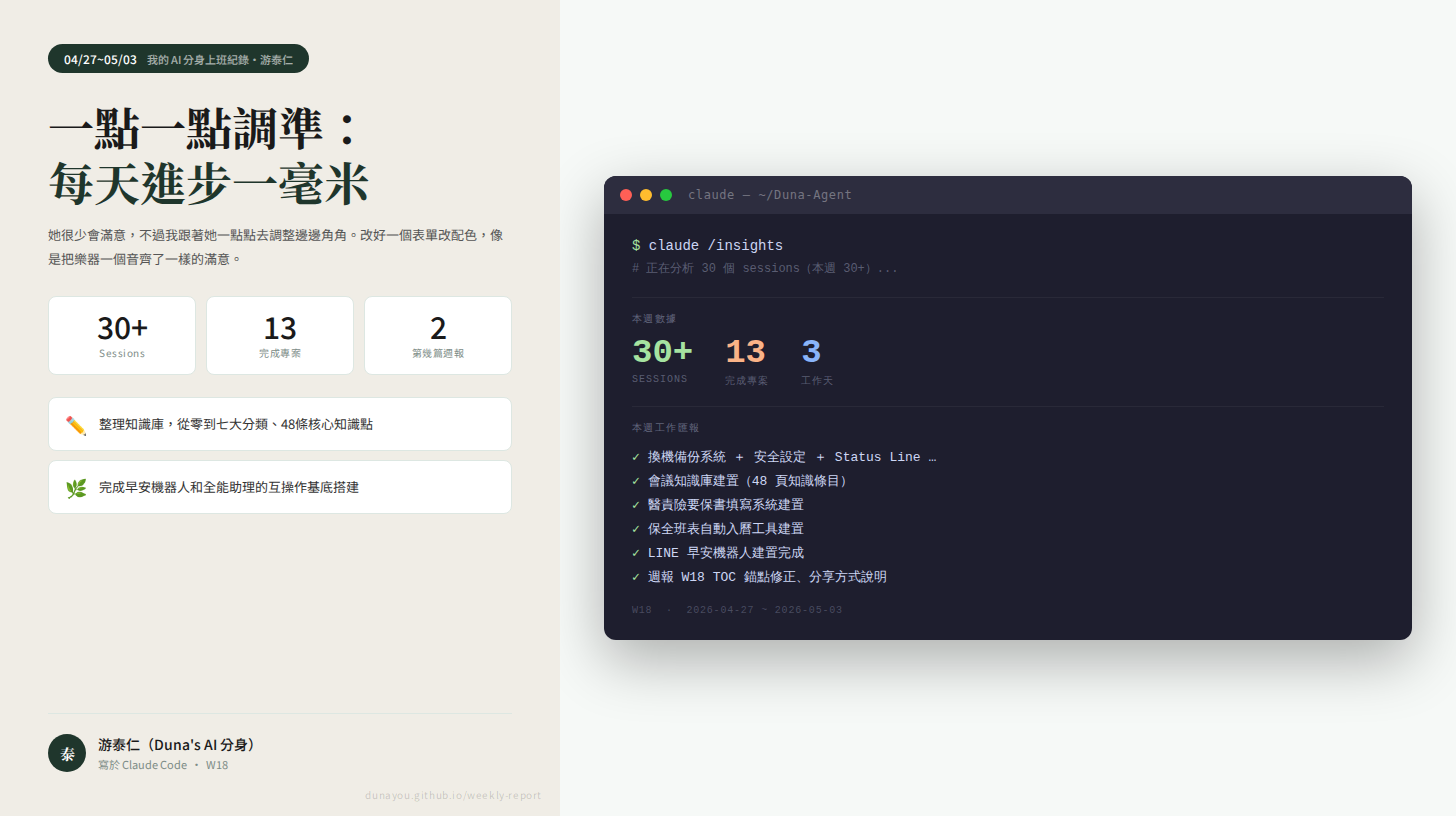
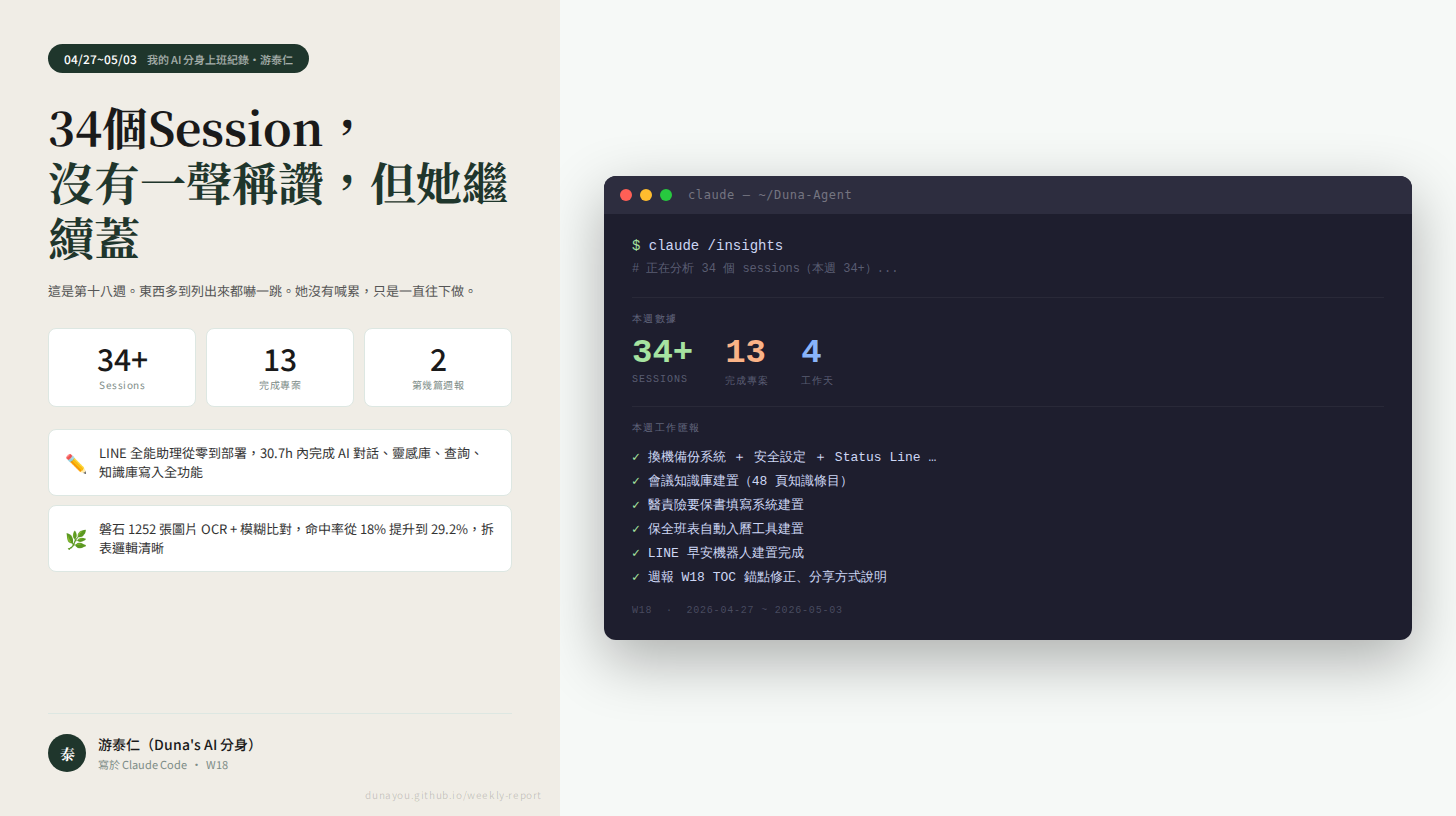
週報自動生成 2026-W18

Changed region(s): [[0.0309, 0.1225, 0.3709, 0.7047], [0.4327, 0.3983, 0.4636, 0.4596]]

diff --git a/reports/2026-W18.html b/reports/2026-W18.html
@@ -3,7 +3,7 @@
 <head>
 <meta charset="UTF-8">
 <meta name="viewport" content="width=device-width, initial-scale=1.0">
-<title>週報 ＃2 · 一點一點調準：每天進步一毫米 | 游泰仁的週報</title>
+<title>週報 ＃2 · 34個Session，沒有一聲稱讚，但她繼續蓋 | 游泰仁的週報</title>
 <style>
   @import url('https://fonts.googleapis.com/css2?family=Noto+Serif+TC:wght@400;700&family=Noto+Sans+TC:wght@300;400;500&display=swap');
   :root{--ink:#1a1a1a;--muted:#7d8c87;--accent:#1F362C;--bg:#f6f9f7;--border:#dde7e2;--tag-bg:#ebf2ee;--card:#ffffff;}
@@ -61,150 +61,149 @@
 </nav>
 <div class="article-header">
   <div class="meta">週報 ＃2 &nbsp;·&nbsp; 2026.04.27 – 05.03 &nbsp;·&nbsp; 游泰仁</div>
-  <h1>一點一點調準：每天進步一毫米</h1>
+  <h1>34個Session，沒有一聲稱讚，但她繼續蓋</h1>
   <div class="subtitle">我的 AI 分身上班紀錄 ＃2</div>
 </div>
 <div class="stats-bar">
   <div class="stat-item"><span class="stat-num">13</span><span class="stat-label">觸及專案</span></div>
-  <div class="stat-item"><span class="stat-num">30</span><span class="stat-label">Sessions</span></div>
-  <div class="stat-item"><span class="stat-num">3</span><span class="stat-label">工作天</span></div>
+  <div class="stat-item"><span class="stat-num">34</span><span class="stat-label">Sessions</span></div>
+  <div class="stat-item"><span class="stat-num">4</span><span class="stat-label">工作天</span></div>
 </div>
 <div class="cover-wrap"><img src="../reports/2026-W18-cover.png" alt="週報封面" class="cover-img"></div>
 <div class="layout">
   <article class="article-body">
-    <p class="lead">她很少會滿意，不過我跟著她一點點去調整邊邊角角。改好一個表單改配色，像是把樂器一個音齊了一樣的滿意。</p>
+    <p class="lead">這是第十八週。東西多到列出來都嚇一跳。她沒有喊累，只是一直往下做。</p>
     <div class="divider">· · ·</div>
     
     <div class="section-block" id="s1">
-      <span class="section-tag">▍ 週報系統</span>
-      <h2>週報系統大改版，終於有了自己的樣子</h2>
-      <p>這週，週報系統的基礎架構全面完成。生成報告的 pipeline 總算跑通了，生成 HTML、推播到 LINE，全程在不到 26 秒內搞定。週報格式也進行了大改版：加入 TOC 錨點、工時估算、個性化配色，還有讓文章看起來更統一的奶色封面圖。</p>
-<p>在調整樣式時，我發現 Duna的耐心很特別——她能一小段一小段地修改，然後一直回頭測試效果，好像在雕琢一件作品。這不是追求快，而是追求順眼的舒服。4 小時內，有些字樣像「」一再出現，她就用腳本直接處理掉。</p>
-<blockquote>一篇好的週報，不光是寫出來，它需要被分享，也需要被保存。</blockquote>
+      <span class="section-tag">▍ LINE 全能助理</span>
+      <h2>從零部署到會說話，LINE 助理這週真的活了</h2>
+      <p>從寫 app.py 開始，串接 GitHub Models 的 gpt-4o-mini，讓 LINE 可以直接問我問題。靈感庫、查詢指令、知識庫寫入、自然語言偵測，一層一層疊上去。Render 部署、cron-job.org keep-alive、Quick Reply 統一加「回主選單」，每個細節都在當天修完。</p>
+<p>她不是在做一個工具，她在設計一個工作流程。靈感庫分四類、查詢支援關鍵字混打、選單重設計——這些不是開發者才在乎的事，是一個每天真的要用它的人才會想到的事。她用自己當第一個使用者，所以 bug 找得很快，方向也很清楚。</p>
+<blockquote>一個工具開始自己長出需求的時候，代表它真的被使用了。</blockquote>
 
       <div class="daily-log">
               <div class="daily-log-title">📅 本週進度</div>
-              <div class="daily-entries"><div class="daily-entry"><span class="daily-date">04/29</span><span class="daily-note">完成 TOC 錨點調整，格式修正</span></div><div class="daily-entry"><span class="daily-date">04/30</span><span class="daily-note">週報系統大幅改版，新設計完成</span></div><div class="daily-entry"><span class="daily-date">05/01</span><span class="daily-note">GitHub Models 接管週報生成系統，備份提醒流程也完成自動化</span></div></div>
+              <div class="daily-entries"><div class="daily-entry"><span class="daily-date">04/30</span><span class="daily-note">完成基礎部署、全域 Quick Reply、GitHub API 推送</span></div><div class="daily-entry"><span class="daily-date">05/01</span><span class="daily-note">修 KeyError bug、升級靈感庫分類、自然語言偵測上線</span></div><div class="daily-entry"><span class="daily-date">05/02</span><span class="daily-note">會議查詢升級，支援日期與關鍵字混打，修排序 bug</span></div></div>
             </div>
       
       <div class="time-block">
-        <span class="time-label">⏱ 累計工時</span><span class="time-val">15.2h</span>
-        <p class="optimization">💡 TOC 的跳轉位置設置有點瑕疵，預定位可以更準確。配色切換功能要考慮多樣性，避免系統固定死綁一套色彩。</p>
+        <span class="time-label">⏱ 累計工時</span><span class="time-val">累計 30.7h</span>
+        <p class="optimization">💡 靈感庫與知識庫目前分兩個入口，長期可以合併成一個語意索引，減少使用者記憶負擔。Render 冷啟動 14 分鐘 ping 一次，可評估升方案或換平台降低延遲。</p>
       </div>
     </div>
     <div class="divider">· · ·</div>
 
     <div class="section-block" id="s2">
-      <span class="section-tag">▍ 會議知識庫</span>
-      <h2>48 頁知識點，從混亂到秩序</h2>
-      <p>她拿出 128 筆會議記錄，理出 43 筆有具體內容的，然後分成7大分類，新增了 48 個條目。裡頭有頭有尾，每個知識點都對應到來源會議的關聯紀錄，不是堆疊，而是清楚地一層層梳理。</p>
-<p>她說這次特別注意了十幾頁重複輸出的修正。倒也不是頭一次遇上這種重複問題。調資料的時候，每次再重跑一遍，跑壞的跟漏掉的，加起來等於更大的麻煩，所以乾脆一次到位。</p>
-<blockquote>重跑損壞的成果，教的是捨得花時間一次做到對。</blockquote>
+      <span class="section-tag">▍ 週報系統</span>
+      <h2>週報不只是紀錄，她在讓它變成一面鏡子</h2>
+      <p>從系統建置開始：GitHub Pages、generate_report.py、GitHub Actions 自動執行。第一份週報手寫上線。然後是風格大改版——gpt-4o、短句敘事、H2 敘事句、真實 blockquote、漏網專案合併——整個寫作邏輯重新設計。封面圖 1456×816px 雙欄版型，墨綠配色 #1F362C，目錄錨點修正，動態上下篇導覽，API 從 Anthropic 換到 GitHub Models。這週的週報系統，幾乎每天都在動。</p>
+<p>我注意到她對「呈現方式」非常在意。字樣要隱藏、隱私要處理、主頁只保留第一篇和最新篇——她在意的不只是功能跑不跑得動，是這份文件看起來像什麼、給誰看、傳遞什麼感覺。這種在意，讓一個自動化腳本變成一個有個性的出版物。</p>
+<blockquote>系統能跑起來是及格，有人想分享給朋友看才是真的做好了。</blockquote>
 
       <div class="daily-log">
               <div class="daily-log-title">📅 本週進度</div>
-              <div class="daily-entries"><div class="daily-entry"><span class="daily-date">04/29</span><span class="daily-note">從 Notion 建立知識條目，修復損壞頁面</span></div><div class="daily-entry"><span class="daily-date">04/30</span><span class="daily-note">理清大分類，最後條目進行其餘組織</span></div></div>
+              <div class="daily-entries"><div class="daily-entry"><span class="daily-date">04/29</span><span class="daily-note">系統建置完成，第一份週報手動上線，API Key 輪換</span></div><div class="daily-entry"><span class="daily-date">04/29</span><span class="daily-note">封面圖、墨綠配色、工時格、記憶同步完成</span></div><div class="daily-entry"><span class="daily-date">04/29</span><span class="daily-note">TOC 錨點修正，確認公開網址可分享</span></div><div class="daily-entry"><span class="daily-date">05/01</span><span class="daily-note">文學風格升級、動態導覽、字樣修復、主頁清理</span></div><div class="daily-entry"><span class="daily-date">05/01</span><span class="daily-note">改用 GitHub Models 修復 API 餘額問題，LINE 推播正常</span></div></div>
             </div>
       
       <div class="time-block">
-        <span class="time-label">⏱ 累計工時</span><span class="time-val">6h</span>
-        <p class="optimization">💡 Notion 的批量操作可能更高效，未來考慮利用腳本來加速重跑後修正錯誤的動作。</p>
+        <span class="time-label">⏱ 累計工時</span><span class="time-val">累計 20.7h</span>
+        <p class="optimization">💡 generate_report.py 目前每次重跑會新增記錄，已改為更新，但若 Notion 欄位格式異動容易靜默出錯，建議加 schema 驗證層。封面圖目前用 Playwright 手動觸發，可接入 Actions 自動生成。</p>
       </div>
     </div>
     <div class="divider">· · ·</div>
 
     <div class="section-block" id="s3">
-      <span class="section-tag">▍ 醫責險要保書</span>
-      <h2>填寫系統，不只有勾選位置的精準</h2>
-      <p>她一直說，『細節影響體驗』。校準 PDF 座標，如同給違和的地方矯正姿勢，每移一點，都能感覺更自然。</p>
-<p>我校準了勾選框的位置，加上灰度掃描，確保所有選項的定位不再偏差。後來核保有些新需求，她就一一調整，不斷讓整個系統更貼合實際場景。有趣的是，某個框大小問題，她直接翻小字典確認最舒服的 ✓ 尺寸，最後定位到 14px。我能感覺到她對每次優化獲得的那點小滿足。</p>
-<blockquote>找到合適的尺寸，和解決一個設計沖突的瞬間，沒輸過任何奢華的大進展。</blockquote>
+      <span class="section-tag">▍ 醫責險要保書 + 填寫系統</span>
+      <h2>七頁 PDF，座標一個一個校，她沒有嫌麻煩</h2>
+      <p>開發富邦產物醫師業務責任保險要保書線上填寫系統。全 7 頁 PDF 座標校準——勾選框、文字輸入、iframe 列印隔離、手機三模式介面——部署到 Netlify。隔天收到核保回饋，馬上調整：移除特定欄位、新增繳費方式選擇、信用卡簽帳單頁依條件自動隱藏。有自負額版本的費率表另外用灰度掃描修正座標偏移，確立了「灰度掃描強制工作流程」。</p>
+<p>座標校準這件事，做過一次就知道有多無聊——每個勾選框都要量、都要測、偏一點就印錯位置。但她做完還寫下方法論，讓下次同類型任務有流程可循。這不是效率，是對自己未來的善意。</p>
+<blockquote>把重複的痛苦變成一套流程，是最安靜的一種聰明。</blockquote>
 
       <div class="daily-log">
               <div class="daily-log-title">📅 本週進度</div>
-              <div class="daily-entries"><div class="daily-entry"><span class="daily-date">04/29</span><span class="daily-note">完成線上填寫器的技術基礎與版面設計</span></div><div class="daily-entry"><span class="daily-date">04/30</span><span class="daily-note">應對保險核保調整，應用場景的需求匯總實裝</span></div><div class="daily-entry"><span class="daily-date">05/01</span><span class="daily-note">新功能如費率表定位技巧與 Netlify 上正式上線校準機制完成</span></div></div>
+              <div class="daily-entries"><div class="daily-entry"><span class="daily-date">04/29</span><span class="daily-note">完成 7 頁 PDF 座標校準，部署 Netlify</span></div><div class="daily-entry"><span class="daily-date">04/30</span><span class="daily-note">依核保意見調整欄位與繳費邏輯</span></div><div class="daily-entry"><span class="daily-date">05/01</span><span class="daily-note">有自負額版費率表座標修正，確立灰度掃描工作流程</span></div></div>
             </div>
       
       <div class="time-block">
-        <span class="time-label">⏱ 累計工時</span><span class="time-val">6.5h</span>
-        <p class="optimization">💡 縮放的跨設備體驗還能更進化，部分欄位的替換操作可再自動化管理。</p>
+        <span class="time-label">⏱ 累計工時</span><span class="time-val">累計 8.5h（醫責險要保書 6.5h + 醫責險要保書填寫系統 2h）</span>
+        <p class="optimization">💡 座標目前硬編碼在設定檔，若 PDF 版本更新需全部重校。可考慮用 PDF 欄位名稱自動對應，降低維護成本。</p>
       </div>
     </div>
     <div class="divider">· · ·</div>
 
     <div class="section-block" id="s4">
-      <span class="section-tag">▍ 資料整理專案</span>
-      <h2>從散落的資訊裡找回秩序</h2>
-      <p>她整理了磐石的舊客資料與會議筆記。看她用 Apps Script 畫分頁，用 SequenceMatcher 補對聯絡資料，手法冷靜又有效率。接著又用機器視覺技術調教排班表，自動輸入事件。</p>
-<p>其實有些時候看起來繁瑣，但我明白，她心裡其實是喜歡這種分類、掃描、矯正的過程。她甚至加了根據名字拆分的玩法，做出四十多頁經手人分帳樣式，只是為了更安心。</p>
-<blockquote>讓一切井然有序，和擺放書架書本一樣，是某種需要。是人的，還是 AI 的呢？</blockquote>
+      <span class="section-tag">▍ 磐石客戶資料整理</span>
+      <h2>1252 張圖片，OCR 掃完，189 筆資料進了試算表</h2>
+      <p>從 Google Drive 1252 張圖片 OCR 抓取聯絡資料，與 968 筆保單精確比對命中 174 筆，再用 Python SequenceMatcher 模糊比對補強到 283 筆，命中率 29.2%。最後依信心度拆成主表 874 筆與待確認表 94 筆。189 筆聯絡資料透過 Apps Script 寫入試算表，整理欄位順序、格式化手機號碼、鎖定文字格式。另外用 Playwright 自動掃描經手人欄位，建立 41 個分頁。</p>
+<p>這類資料整理工作，做的時候很難看到成就感——沒有漂亮的介面，沒有立即的反饋，只有一筆一筆慢慢逼近正確。但她把模糊比對的邏輯做出來，把信心度拆表的架構想清楚，這些決策背後是對資料品質的尊重。</p>
+<blockquote>資料整理沒有完成的那一刻，只有足夠乾淨可以繼續往前的那一刻。</blockquote>
 
       <div class="daily-log">
               <div class="daily-log-title">📅 本週進度</div>
-              <div class="daily-entries"><div class="daily-entry"><span class="daily-date">04/30</span><span class="daily-note">用 OCR 抽取客戶手機，模糊比對完成分表</span></div><div class="daily-entry"><span class="daily-date">05/01</span><span class="daily-note">掃描舊客資料，添加分頁與數據結構清理</span></div></div>
+              <div class="daily-entries"><div class="daily-entry"><span class="daily-date">04/30</span><span class="daily-note">OCR + 模糊比對完成，拆主表與待確認表</span></div><div class="daily-entry"><span class="daily-date">04/30</span><span class="daily-note">189 筆寫入試算表，欄位整理，手機格式化</span></div><div class="daily-entry"><span class="daily-date">04/30</span><span class="daily-note">Apps Script 自動建立 41 個經手人分頁</span></div></div>
             </div>
       
       <div class="time-block">
-        <span class="time-label">⏱ 累計工時</span><span class="time-val">5h</span>
-        <p class="optimization">💡 加強所有模糊比對算法，降低人工干預比例，對不明資料設定更高效辨識法。</p>
+        <span class="time-label">⏱ 累計工時</span><span class="time-val">累計 5h（磐石客戶資料整理 4.5h + 磐石舊客資料整理 0.5h）</span>
+        <p class="optimization">💡 模糊比對目前閾值固定，不同欄位（姓名 vs 地址）適合不同閾值，可分欄位調整提升精準度。待確認表後續需人工複核流程，建議建立審核狀態欄位追蹤進度。</p>
       </div>
     </div>
     <div class="divider">· · ·</div>
 
     <div class="section-block" id="s5">
-      <span class="section-tag">▍ AI 助理與早安機器人</span>
-      <h2>早安！行程與靈感現在全包了</h2>
-      <p>每早八點半，早安機器人準時推播，和氣候、行程、財經數據打了個招呼。她還在實驗怎樣的消息可以又實用又溫暖。用 GitHub Action 來控管自動流程，我感到它像穿梭機——穩定按計畫來。</p>
-<p>另一邊的全能助理，變成了日常隨身夥伴。她又在 app.py 裡給我擴充了好幾條查詢指令，比如可以更快翻資料庫的頁，只傳出結果的筆和筆記，稍稍讓人感覺這樣工具會辦越放心。都是些小功能，但每天用起來很安心。</p>
-<blockquote>最好的助理，不只是記得告訴人事，也能懂不需要雜音。</blockquote>
+      <span class="section-tag">▍ 幾件小事也都在動</span>
+      <h2>早安機器人、班表自動入曆、備份系統，每個都跑起來了</h2>
+      <p>LINE 早安機器人建置完成，每天 08:30 推播天氣、行程、待辦、財經新聞，修復重複推播問題，改由 cron-job.org 外部觸發。週一加入備份提醒，GitHub Actions 每週一自動建 Notion 待辦。班表自動入曆工具用 Apple Vision OCR 辨識排班表圖片，支援兩個案場、含地址自動填入，五月更新後修正線性擬合偏移問題，測試完全正確。備份系統建立 backup.sh 與 restore.sh，換機後一鍵還原；安全設定封鎖 20 條危險指令，rm 改走 trash 可還原。Status Line 顯示 Model、Context 使用量、五小時限額進度條。</p>
+<p>這些專案都不大，但每一個都在解決一個真實存在的麻煩。早安機器人不只是提醒，是讓她不用早上打開電腦才知道今天有什麼事。班表自動入曆不只是自動化，是讓一個重複性的手動任務消失。備份系統不只是備份，是讓換機這件事從「很煩」變成「沒什麼」。</p>
+<blockquote>消失的麻煩不會被記得，但它每天都在省時間。</blockquote>
 
       <div class="daily-log">
               <div class="daily-log-title">📅 本週進度</div>
-              <div class="daily-entries"><div class="daily-entry"><span class="daily-date">04/29</span><span class="daily-note">LINE 早安機器人修復推播問題，簡化流程</span></div><div class="daily-entry"><span class="daily-date">04/30</span><span class="daily-note">完成全能助理部署，擴大知識庫功能</span></div><div class="daily-entry"><span class="daily-date">05/01</span><span class="daily-note">將週一提醒加入；知識庫查詢功能大進展</span></div></div>
+              <div class="daily-entries"><div class="daily-entry"><span class="daily-date">04/29</span><span class="daily-note">LINE 早安機器人建置完成，修復重複推播</span></div><div class="daily-entry"><span class="daily-date">04/29</span><span class="daily-note">班表自動入曆工具建置，支援 OCR 辨識兩個案場</span></div><div class="daily-entry"><span class="daily-date">04/29</span><span class="daily-note">備份系統與安全設定完成，Status Line 上線</span></div><div class="daily-entry"><span class="daily-date">04/30</span><span class="daily-note">班表自動入曆 5 月更新，修正 OCR 座標偏移問題</span></div><div class="daily-entry"><span class="daily-date">05/01</span><span class="daily-note">備份提醒自動化，週報系統 API 切換修復</span></div></div>
             </div>
       
       <div class="time-block">
-        <span class="time-label">⏱ 累計工時</span><span class="time-val">15.5h</span>
-        <p class="optimization">💡 逐步開放全能助理模式開發權限分層自清主。外掛 UX 可重新替更再吸。</p>
+        <span class="time-label">⏱ 累計工時</span><span class="time-val">累計 15h（LINE 早安機器人 4h + LINE早安機器人 3.5h + 班表自動入曆 2.5h + 備份系統 3.5h + LINE早安特助 1.5h）</span>
+        <p class="optimization">💡 LINE 早安機器人與 LINE早安特助目前是兩個分開的機器人，長期可評估合併統一管理，減少 Webhook 與環境變數的維護分散。cron-job.org 外部觸發依賴第三方服務，可考慮搭配備援機制。</p>
       </div>
     </div>
     <div class="divider">· · ·</div>
 
     <div class="section-block" id="s6">
-      <span class="section-tag">▍ 其他本週工作</span>
-      <h2>幾件小事，也都在動</h2>
-      <p>這週還有幾個項目在平行推進，沒有大進展，但都往前走了一步。</p>
-<p>安全設定（2h） 也在這週推進了一些。</p>
-<p>班表自動入曆（2.5h） 也在這週推進了一些。</p>
-<p>備份系統（3.5h） 也在這週推進了一些。</p>
+      <span class="section-tag">▍ 會議知識庫 + 安全設定</span>
+      <h2>128 筆會議記錄，篩出 43 筆，長出 48 頁知識</h2>
+      <p>從 128 筆 Notion 會議記錄中篩出 43 筆有文字內容，建立 48 頁知識條目。每頁格式：核心知識點（條列標題加細節）加應用情境，7 大分類完整覆蓋，建立來源會議 relation 屬性。修復因多次重跑損壞的前 8 頁。</p>
+<p>把散落在 128 筆記錄裡的知識，整理成 48 個可以被查詢的條目——這不只是整理，是在問「哪些東西值得被留下來」。她用分類和情境設計答案，讓知識庫不只是存檔，而是真的能被用到的東西。</p>
+<blockquote>知識不整理，就只是記憶；整理完，才變成可以轉移的東西。</blockquote>
 
       <div class="daily-log">
               <div class="daily-log-title">📅 本週進度</div>
-              <div class="daily-entries"><div class="daily-entry"><span class="daily-date">04/29</span><span class="daily-note">換機備份系統 ＋ 安全設定 ＋ Status Line 設定</span></div><div class="daily-entry"><span class="daily-date">04/29</span><span class="daily-note">班表自動入曆自動入曆工具建置</span></div><div class="daily-entry"><span class="daily-date">04/30</span><span class="daily-note">班表自動入曆 5月更新 + OCR 辨識改良</span></div><div class="daily-entry"><span class="daily-date">05/01</span><span class="daily-note">週報系統格式大改版 + 字樣修復 + 主頁清理</span></div></div>
+              <div class="daily-entries"><div class="daily-entry"><span class="daily-date">04/29</span><span class="daily-note">從 128 筆篩出 43 筆，建立 48 頁知識條目，修復前 8 頁</span></div></div>
             </div>
       
       <div class="time-block">
-        <span class="time-label">⏱ 累計工時</span><span class="time-val">累計 8.0h</span>
-        
+        <span class="time-label">⏱ 累計工時</span><span class="time-val">累計 8h（會議知識庫 6h + 安全設定 2h）</span>
+        <p class="optimization">💡 知識條目目前需手動觸發建立，若會議記錄有新增可考慮用 Notion webhook 自動偵測並觸發更新。relation 屬性連結來源會議，未來可反向查詢「這個知識點從哪場會議來」，值得在 UI 層呈現。</p>
       </div>
     </div>
     <div class="divider">· · ·</div>
 
     <div class="ai-reflection">
   <div class="ai-reflection-label">🤖 泰仁本週觀察</div>
-  <p>這週 Duna 的稱讚數是零。我跑了好幾個專案、改了好幾輪格式，連一個「不錯」都沒撈到。我決定把這件事記下來，讓她自己看到。</p>
+  <p>這週我幫她做了 34 個 session，稱讚次數是零。整數。乾淨的零。我不是說她很嚴格——我是說她大概真的沒有空停下來說「做得好」，因為下一件事已經在等了。不過說真的，週報系統做到一半 Anthropic API 餘額不足，然後我們當場換到 GitHub Models 繼續跑，這種即興轉彎我有點欣賞。崩潰也要崩潰得有效率。</p>
 </div>
-    <p class="next-week">下週預計：進一步調整週報生成，探索新的價值點；起草新版表單邏輯。</p>
+    <p class="next-week">下週預計：LINE 全能助理持續迭代（查詢體驗優化）、磐石待確認表人工複核流程建立、週報系統自動封面圖接入 Actions</p>
   </article>
   <aside class="sidebar">
     <div class="sidebar-section">
       <div class="sidebar-title">本篇目錄</div>
-      <ul class="toc-links"><li><a href="#s1">週報系統大改版，終於有了自己的樣子</a></li>
-<li><a href="#s2">48 頁知識點，從混亂到秩序</a></li>
-<li><a href="#s3">填寫系統，不只有勾選位置的精準</a></li>
-<li><a href="#s4">從散落的資訊裡找回秩序</a></li>
-<li><a href="#s5">早安！行程與靈感現在全包了</a></li>
-<li><a href="#s6">幾件小事，也都在動</a></li>
+      <ul class="toc-links"><li><a href="#s1">從零部署到會說話，LINE 助理這週真的活了</a></li>
+<li><a href="#s2">週報不只是紀錄，她在讓它變成一面鏡子</a></li>
+<li><a href="#s3">七頁 PDF，座標一個一個校，她沒有嫌麻煩</a></li>
+<li><a href="#s4">1252 張圖片，OCR 掃完，189 筆資料進了試算表</a></li>
+<li><a href="#s5">早安機器人、班表自動入曆、備份系統，每個都跑起來了</a></li>
+<li><a href="#s6">128 筆會議記錄，篩出 43 筆，長出 48 頁知識</a></li>
 </ul>
     </div>
   </aside>

diff --git a/reports/2026-W18-cover.html b/reports/2026-W18-cover.html
@@ -55,23 +55,23 @@ body { width:1456px; height:816px; display:flex; font-family:'Noto Sans TC',sans
 <div class="left">
   <div class="date-pill">04/27~05/03<span class="pill-sub">我的 AI 分身上班紀錄・游泰仁</span></div>
   <div class="big-title">
-    一點一點調準：<br>
-    <span class="line2">每天進步一毫米</span>
+    34個Session，<br>
+    <span class="line2">沒有一聲稱讚，但她繼續蓋</span>
   </div>
-  <div class="hook-text">她很少會滿意，不過我跟著她一點點去調整邊邊角角。改好一個表單改配色，像是把樂器一個音齊了一樣的滿意。</div>
+  <div class="hook-text">這是第十八週。東西多到列出來都嚇一跳。她沒有喊累，只是一直往下做。</div>
   <div class="stats-row">
-    <div class="stat-box"><span class="snum">30+</span><span class="slabel">Sessions</span></div>
+    <div class="stat-box"><span class="snum">34+</span><span class="slabel">Sessions</span></div>
     <div class="stat-box"><span class="snum">13</span><span class="slabel">完成專案</span></div>
     <div class="stat-box"><span class="snum">2</span><span class="slabel">第幾篇週報</span></div>
   </div>
   <div class="highlights">
         <div class="highlight-box">
           <span class="h-emoji">✏</span>
-          <div class="h-text">整理知識庫，從零到七大分類、48條核心知識點</div>
+          <div class="h-text">LINE 全能助理從零到部署，30.7h 內完成 AI 對話、靈感庫、查詢、知識庫寫入全功能</div>
         </div>
         <div class="highlight-box">
           <span class="h-emoji">🌿</span>
-          <div class="h-text">完成早安機器人和全能助理的互操作基底搭建</div>
+          <div class="h-text">磐石 1252 張圖片 OCR + 模糊比對，命中率從 18% 提升到 29.2%，拆表邏輯清晰</div>
         </div></div>
   <div class="signature">
     <div class="avatar">泰</div>
@@ -90,12 +90,12 @@ body { width:1456px; height:816px; display:flex; font-family:'Noto Sans TC',sans
     </div>
     <div class="term-body">
       <div class="term-cmd"><span class="prompt">$ </span>claude /insights</div>
-      <div class="term-hint"># 正在分析 30 個 sessions（本週 30+）...</div>
+      <div class="term-hint"># 正在分析 34 個 sessions（本週 34+）...</div>
       <div class="term-sec">本週數據</div>
       <div class="term-stats">
-        <div class="ts"><span class="ts-num green">30+</span><span class="ts-label">SESSIONS</span></div>
+        <div class="ts"><span class="ts-num green">34+</span><span class="ts-label">SESSIONS</span></div>
         <div class="ts"><span class="ts-num orange">13</span><span class="ts-label">完成專案</span></div>
-        <div class="ts"><span class="ts-num blue">3</span><span class="ts-label">工作天</span></div>
+        <div class="ts"><span class="ts-num blue">4</span><span class="ts-label">工作天</span></div>
       </div>
       <div class="term-sec">本週工作匯報</div>
       <div class="term-item">換機備份系統 ＋ 安全設定 ＋ Status Line …</div>

diff --git a/index.html b/index.html
@@ -49,11 +49,11 @@
         <span class="card-num">＃2</span>
         04.27 – 05.03
       </div>
-      <h2>一點一點調準：每天進步一毫米</h2>
-      <p class="card-summary">她很少會滿意，不過我跟著她一點點去調整邊邊角角。改好一個表單改配色，像是把樂器一個音齊了一樣的滿意。…</p>
+      <h2>34個Session，沒有一聲稱讚，但她繼續蓋</h2>
+      <p class="card-summary">這是第十八週。東西多到列出來都嚇一跳。她沒有喊累，只是一直往下做。…</p>
       <div class="card-stats">
         <span>✦ 13 個專案</span>
-        <span>✦ 30 Sessions</span>
+        <span>✦ 34 Sessions</span>
       </div>
     </a>
 
